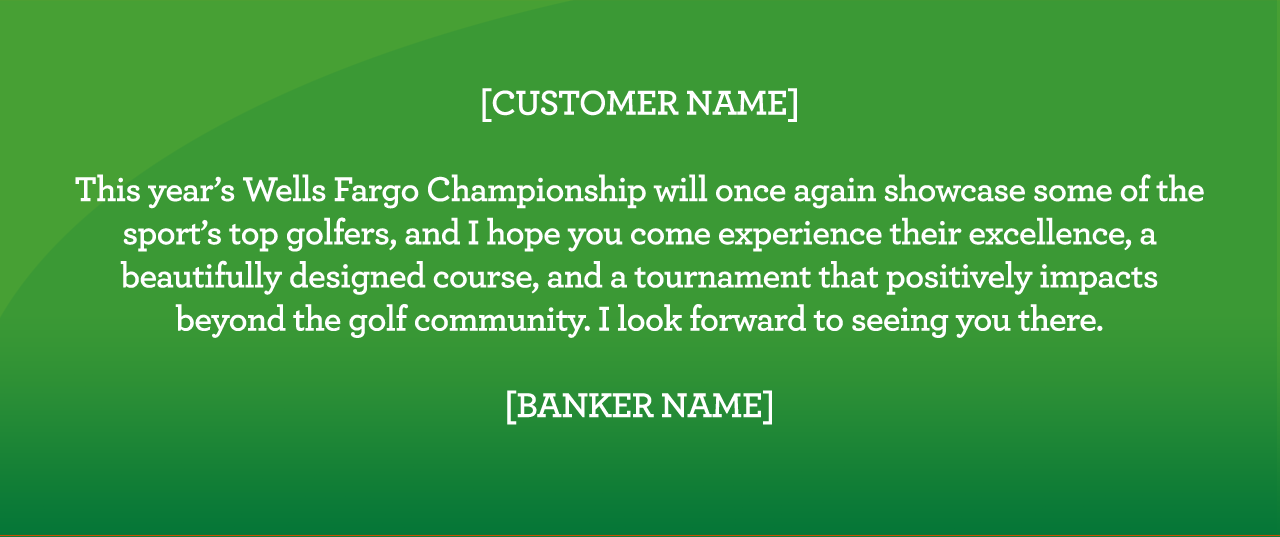
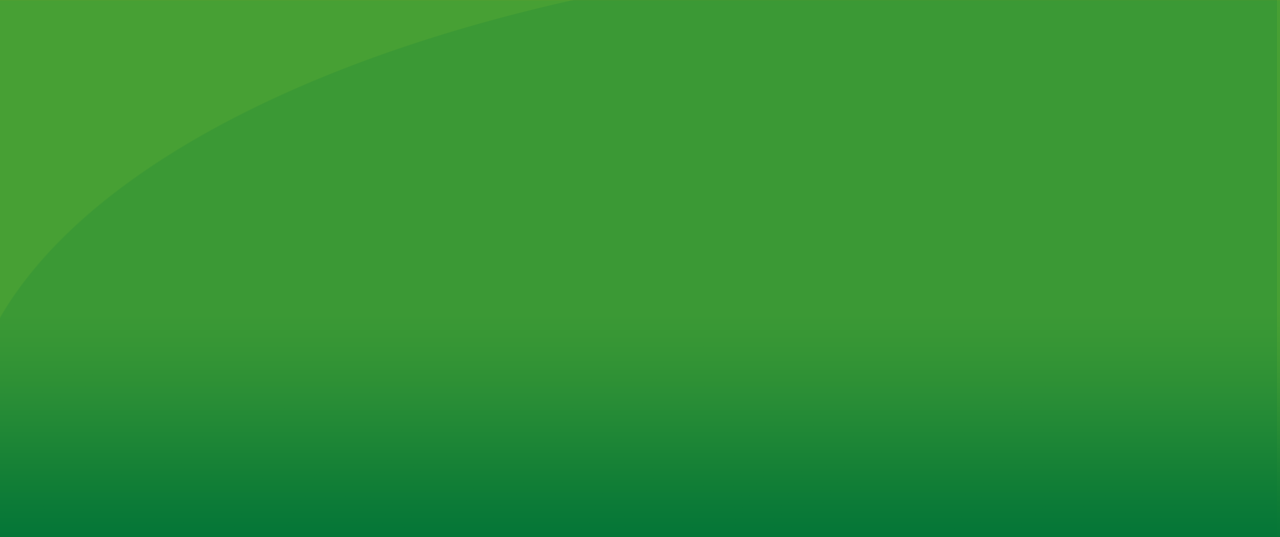
update picys

diff --git a/index.html b/index.html
@@ -16,99 +16,110 @@
             <h2>MAP</h2>
             <p>DRIVE</p> <a href="#X1a">X1a</a> <a href="#X1b">X1b</a>
             <p>HOLES</p> <a href="#X2a">X2a</a> <a href="#X2b">X2b</a>
-            <p>BEAUT</p> <a href="#X3a">X3a</a> <a href="#X3b">X3b</a>
-            <p>COMM</p>  <a href="#X4a">X4a</a> <a href="#X4b">X4b</a>
+            <p>BEAUT</p> <a href="#X3">X3</a>   <a href="#X3a">X3a</a> <a href="#X3b">X3b</a>
+            <p>COMM</p>  <a href="#X4">X4</a>   <a href="#X4a">X4a</a> <a href="#X4b">X4b</a>
             <p>CLOSE</p> <a href="#X5">X5</a>   <a href="#X5a">X5a</a> <a href="#X5b">X5b</a>
         </div>
         <div id="Wrap">
+            <!-- | | | | -->
             <!--
-DRIVE1
+DRIVE
             -->
-            <section id="X1a" data-F="1drive/panel.png" data-H="640" data-R="-10" data-O="50" data-T="move">
+            <!-- | | | | -->
+            <section id="X1a" data-F="1drive/panel.png" data-H="640" data-R="2" data-O="0" data-T="move">
                 <br>
             </section>
-            <!--
-DRIVE2
-            -->
-            <section id="X1b" data-F="1drive/_back.jpg" data-H="640" data-R="4" data-O="0" data-T="move">
+            <section id="X1b" data-F="1drive/_back.jpg" data-H="640" data-R="1" data-O="0" data-T="move">
                 <br>
-                <img src="images/1drive/tbox.png" alt="Expdrive" class="tbox">
+                <img src="images/1drive/tbox.png" alt="Expdrive" class="tbox shadow" style="margin-top: 25em; width: 50%;">
                 <br>
                 <div class="ribbon bottom shadow">
                     <img src="images/1drive/ribbon.png" alt="Ribbon">
 
-                <!-- <b>FedEx Cup Points:</b> 500      <b>Par:</b> 36–36–72      <b>Yardage:</b> 7,469 -->
+                    <!-- <b>FedEx Cup Points:</b> 500      <b>Par:</b> 36–36–72      <b>Yardage:</b> 7,469 -->
                 </div>
                 <br>
             </section>
+            <!-- | | | | -->
             <!--
-HOLES1
+HOLES
             -->
-            <section id="X2a" data-F="2holes/_back1.jpg" data-H="640" data-R="4" data-O="0" data-T="move">
+            <!-- | | | | -->
+            <section id="X2" data-F="2holes/_back1.jpg" data-H="640" data-R="4" data-O="0" data-T="move">
                 <br>
             </section>
-            <!--
-HOLES2
-            -->
-            <section id="X2b" data-F="2holes/_back3.jpg" data-H="640" data-R="4" data-O="25" data-T="move">
+            <section id="X2a" data-F="2holes/_back3.jpg" data-H="640" data-R="4" data-O="25" data-T="move">
                 <br>
-                <img src="images/2holes/_intro.jpg" alt="Intro Text" class="tbox">
+                <img src="images/2holes/intro.png" alt="Intro Text" class="tbox shadow">
                 <br>
-                <img src="images/2holes/_hole1.jpg" alt="Hole1" class="tbox hide">
+                <!-- <img src="images/0chrome/arrows.png" alt="Arrows" class="tbox hide">-->
+            </section>
+            <section id="X2b" data-F="2holes/_back2.jpg" data-H="640" data-R="4" data-O="58" data-T="move">
                 <br>
-                <img src="images/2holes/_hole2.jpg" alt="Hole2" class="tbox hide">
-                <br>
-                <img src="images/0chrome/arrows.png" alt="Arrows" class="tbox hide">
+                <img src="images/2holes/hole1.png" alt="Intro Text" class="tbox shadow">
                 <br>
             </section>
+            <!-- | | | | -->
             <!--
-BEAUTY1
+BEAUTY
             -->
-            <section id="X3a" data-F="3beauty/_back1.jpg" data-H="640" data-R="4" data-O="0" data-T="move">
+            <!-- | | | | -->
+            <section id="X3" data-F="3beauty/_back1.jpg" data-H="640" data-R="4" data-O="0" data-T="move">
                 <br>
-                <img src="images/3beauty/tbox.png" alt="Expbeaut" class="tbox">
                 <br>
             </section>
-            <!--
-BEAUTY2
-            -->
-            <section id="X3b" data-F="3beauty/_back3.jpg" data-H="640" data-R="4" data-O="25" data-T="move">
+            <section id="X3a" data-F="3beauty/_back2.jpg" data-H="640" data-R="4" data-O="25" data-T="move">
                 <br>
-                <div class="center" style="margin-top: 2em; width: 1000px;">
-                    <img src="images/3beauty/_pic1.jpg" alt="Pic1">
+                <img src="images/3beauty/tbox.png" alt="Expbeaut" class="tbox shadow" style="margin-top: 24em; width: 50%;">
+                <br>
+            </section>
+            <section id="X3b" data-F="3beauty/_back3.jpg" data-H="640" data-R="4" data-O="50" data-T="move">
+                <br>
+                <div class="center shadow" style="margin-top: 12em; width: 1000px;">
+                    <img src="images/3beauty/6up.png" alt="Pic1" class="shadow">
+                    <!--
+                    <img src="images/3beauty/_pic1.jpg" alt="Pic1" class="shadow">
                     <img src="images/3beauty/_pic2.jpg" alt="Pic2">
                     <img src="images/3beauty/_pic3.jpg" alt="Pic3">
+                    -->
                 </div>
                 <br>
             </section>
+            <!-- | | | | -->
             <!--
-COMMUNITY1
+COMMUNITY
             -->
+            <!-- | | | | -->
+            <section id="X4" data-F="4comm/_back0.jpg" data-H="640" data-R="4" data-O="0" data-T="move">
+                <br>
+                <img src="images/4comm/tbox.png" alt="Exp Comm" class="tbox shadow" style="margin-top: 25em; width: 50%;">
+                <br>
+            </section>
             <section id="X4a" data-F="4comm/_back1.jpg" data-H="640" data-R="4" data-O="0" data-T="move">
                 <br>
-                <img src="images/4comm/teach1.png" alt="Panel" class="teach">
+                <img src="images/4comm/teach1.png" alt="Panel" class="teach shadow">
                 <br>
             </section>
-            <!--
-COMMUNITY2
-            -->
             <section id="X4b" data-F="4comm/_back2.jpg" data-H="640" data-R="4" data-O="0" data-T="move">
                 <br>
-                <img src="images/4comm/teach2.png" alt="Panel" class="teach">
+                <img src="images/4comm/teach2.png" alt="Panel" class="teach shadow">
                 <br>
             </section>
+            <!-- | | | | -->
             <!--
-CLOSE
+CLOSER
             -->
-            <section id="X5" data-F="5close/_back.jpg" data-H="640" data-R="4" data-O="0" data-T="move">
+            <!-- | | | | -->
+            <section id="X5" data-F="5close/_back1.jpg" data-H="640" data-R="4" data-O="0" data-T="move">
                 <br>
-                <img src="images/5close/tbox.png" alt="Get Close" class="tbox">
                 <br>
             </section>
-            <!--
-CLOSE1
-            -->
-            <section id="X5a" data-F="5close/panel1.png" data-H="640" data-R="2" data-O="0" data-T="move">
+            <section id="X5a" data-F="5close/_back2.jpg" data-H="640" data-R="4" data-O="25" data-T="move">
+                <br>
+                <img src="images/5close/tbox.png" alt="Get Closer" class="tbox">
+                <br>
+            </section>
+            <section id="X5b" data-F="5close/panel1.png" data-H="640" data-R="2" data-O="0" data-T="move" style="padding: 10em 7em;">
                 <br>
                 <h1>[CUSTOMER NAME]</h1>
                 <h1>
@@ -118,10 +129,7 @@ CLOSE1
                 </h1>
                 <h1>[BANKER NAME]</h1>
             </section>
-            <!--
-CLOSE2
-            -->
-            <section id="X5b" data-F="5close/panel2.png" data-H="640" data-R="4" data-O="0" data-T="move">
+            <section id="X5c" data-F="5close/panel2.png" data-H="640" data-R="1" data-O="0" data-T="move">
                 <br>
             </section>
         </div>
@@ -141,7 +149,7 @@ JUNK
             </div>
             <br>
             <div id="Slug">
-                <p>© 2013 Wells Fargo. All rights reserved. ECG-1166680 Golf Invitation 2014</p>
+                <p>© 2013 Wells Fargo. All rights reserved. ECG-1166680 </p>
             </div>
             <br>
         </section>

diff --git a/scss/green.scss b/scss/green.scss
@@ -17,16 +17,18 @@ $green: #46a033;
         height: 100px;
     }
     h1, h2, h3 {
+        color: white;
         font-family: 'Archer SSm A', 'Archer SSm B', Georgia, serif;
         font-weight: 700;
         margin: 1em;
+        text-align: center;
 
         /*
-        font-weight: 400; // Archer ScreenSmart Light
-        font-weight: 500; // Archer ScreenSmart Regular
-        font-weight: 600; // Archer ScreenSmart Medium
-        font-weight: 700; // Archer ScreenSmart Semibold
-        font-weight: 800; // Archer ScreenSmart Bold
+        font-weight: 400; //  Light
+        font-weight: 500; //  Regular
+        font-weight: 600; //  Medium
+        font-weight: 700; //  Semibold
+        font-weight: 800; //  Bold
         */
     }
 }

diff --git a/scss/_para.scss b/scss/_para.scss
@@ -19,6 +19,7 @@ p {
 #Wrap section {
     background: url('../images/0chrome/swatch.png') 50% 0 no-repeat fixed;
     background-size: cover !important;
+    box-shadow: 0 0 50px rgba(0,0,0,0.4);
     margin: 0 auto;
     min-height: 640px;
     height: 100%;

diff --git a/scss/_misc.scss b/scss/_misc.scss
@@ -46,11 +46,3 @@ section {
         border: 1px solid red;
     }
 }
-
-#X5a {
-    text-align: center;
-    color: white;
-    padding: 10em 7em;
-
-
-}
